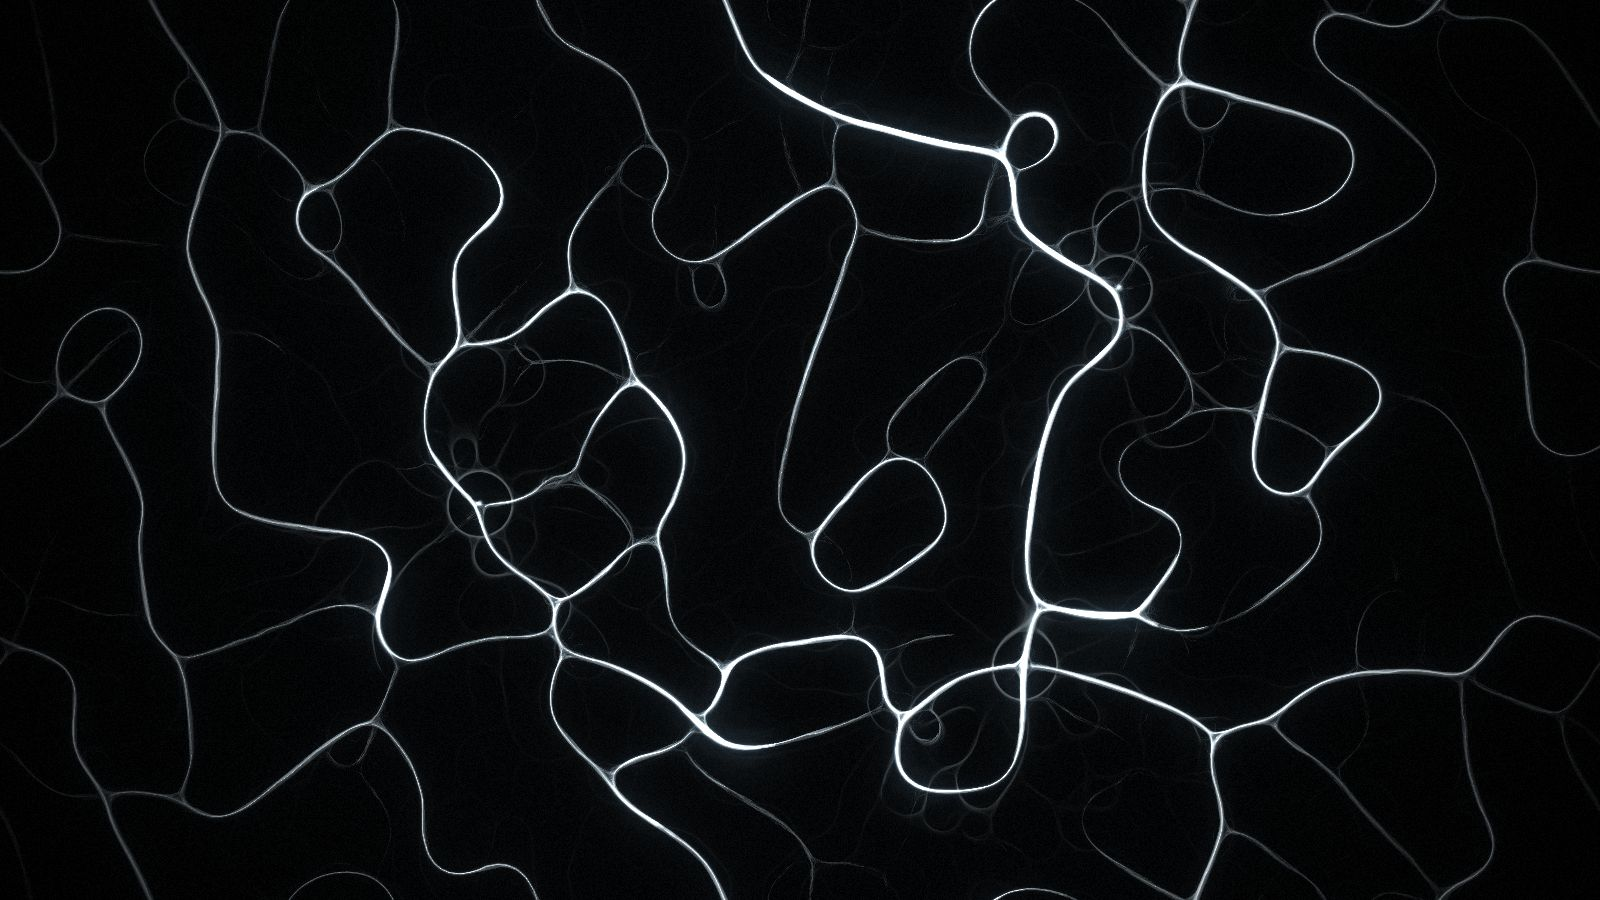
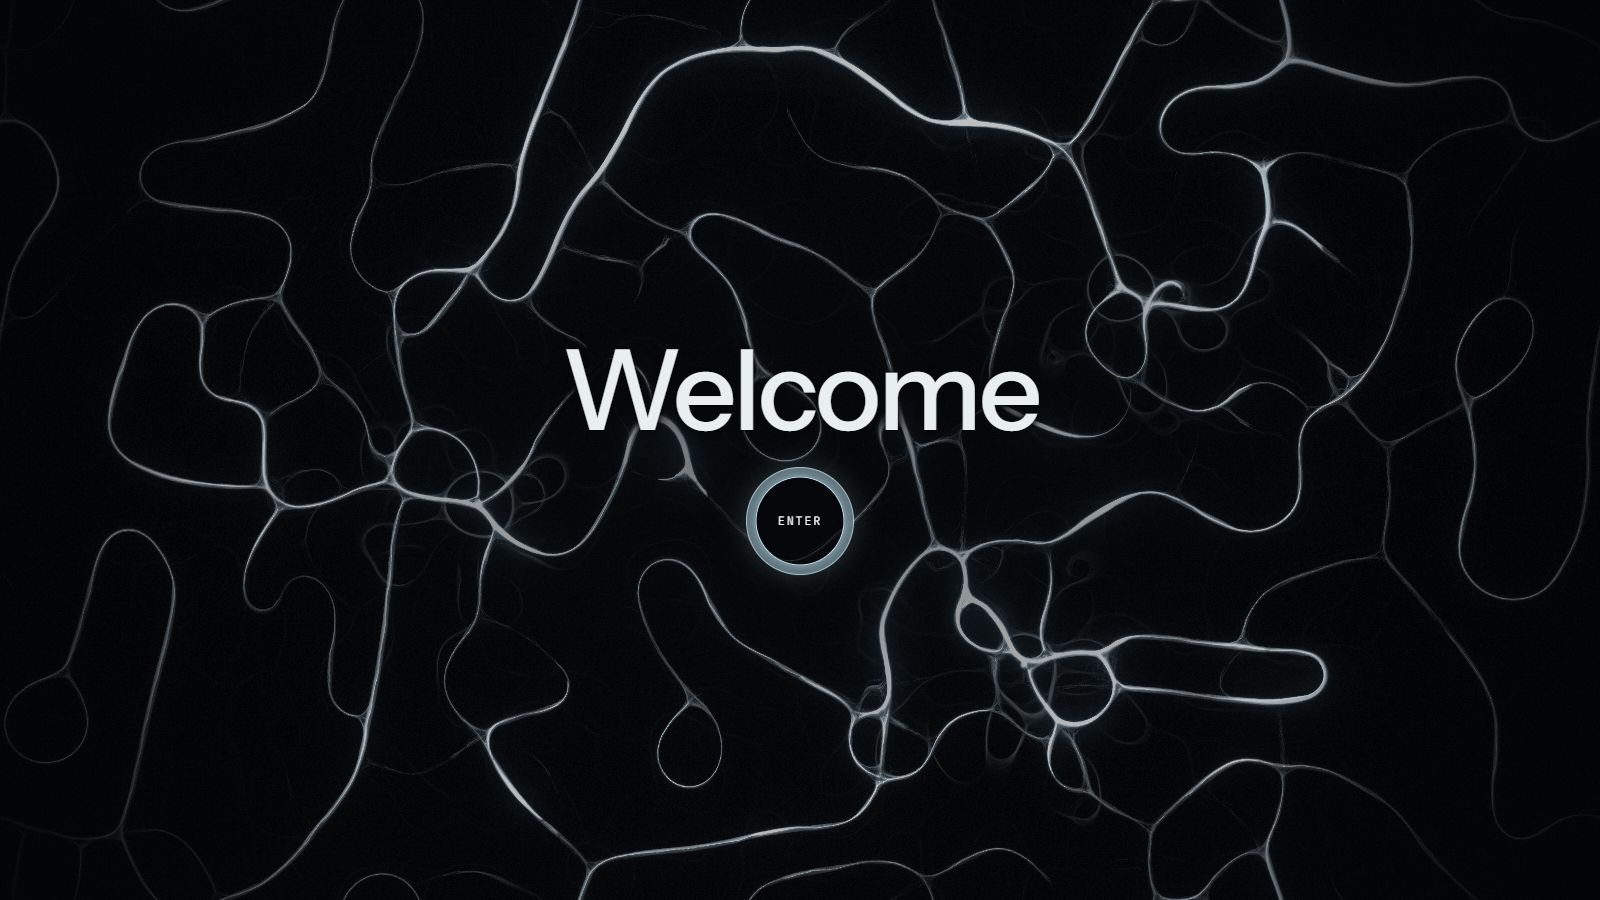
Simplify entry screen, add About portrait, dim the field on phones
- Entry screen shows only "Welcome" and a smaller Enter ring
- About window: portrait beside the text, heading first when stacked
- Phones: dimmer Physarum field and dark plates behind labels

diff --git a/style.css b/style.css
@@ -56,12 +56,11 @@ img { -webkit-user-drag: none; pointer-events: none; }
 .gate.out { opacity: 0; visibility: hidden; pointer-events: none; }
 body.gated .top, body.gated main, body.gated .foot { opacity: 0; }
 .gate-inner { text-shadow: 0 0 22px var(--bg), 0 0 10px var(--bg), 0 0 4px var(--bg); }
-.gate-name { margin: 0; font-size: clamp(46px, 8vw, 112px); font-weight: 500; letter-spacing: -0.03em; line-height: 0.95; }
-.gate-role { margin: 14px 0 40px; font-size: clamp(14px, 1.4vw, 17px); color: #b9c4ca; }
+.gate-name { margin: 0 0 36px; font-size: clamp(46px, 8vw, 112px); font-weight: 500; letter-spacing: -0.03em; line-height: 0.95; }
 .gate-enter {
   position: relative; display: inline-grid; place-items: center;
-  width: 116px; height: 116px; border-radius: 50%;
-  font-family: var(--mono); font-size: 13px; text-transform: uppercase; letter-spacing: 0.16em;
+  width: 84px; height: 84px; border-radius: 50%;
+  font-family: var(--mono); font-size: 11px; text-transform: uppercase; letter-spacing: 0.16em;
   border: 1px solid var(--accent); background: rgba(5, 7, 10, 0.6);
   box-shadow: 0 0 0 8px rgba(5, 7, 10, 0.45), 0 0 0 9px rgba(191, 227, 242, 0.3);
   transition: transform 0.25s ease, box-shadow 0.25s ease;
@@ -315,6 +314,14 @@ body:not(.gl-glass) .win {
 .win .p-no { font-family: var(--mono); font-size: 12px; color: var(--accent); }
 .win h2 { font-size: clamp(24px, 2.5vw, 34px); font-weight: 500; letter-spacing: -0.015em; line-height: 1.08; margin: 8px 0 0; }
 .win.small h2 { margin: 0 44px 18px 0; } /* clear of the close button */
+.win.about { width: min(900px, 100vw - 48px); }
+.about-grid {
+  display: grid; grid-template-columns: minmax(0, 4fr) minmax(0, 6fr); grid-template-rows: auto 1fr;
+  grid-template-areas: "photo head" "photo text"; column-gap: 32px; align-items: start;
+}
+.about-grid h2 { grid-area: head; }
+.about-grid .about-text { grid-area: text; }
+.about-grid .portrait { grid-area: photo; display: block; width: 100%; height: auto; border-radius: 14px; }
 .win-cols { display: grid; grid-template-columns: minmax(0, 5fr) minmax(0, 7fr); gap: 34px; min-height: 0; }
 .win-info, .win-media {
   overflow-y: auto; padding-bottom: 34px;
@@ -370,6 +377,11 @@ body:not(.gl-glass) .win {
   .win-cols { display: block; }
   .win-info, .win-media { overflow: visible; padding-bottom: 0; }
   .win-media { margin-top: 20px; }
+  .about-grid { grid-template-columns: 1fr; grid-template-rows: none; grid-template-areas: "head" "photo" "text"; }
+  .about-grid .portrait {
+    width: min(100%, 420px); aspect-ratio: 4 / 5; max-height: 46vh; margin-bottom: 22px;
+    object-fit: cover; object-position: 62% 40%;
+  }
 }
 @media (prefers-reduced-motion: reduce) {
   .win.enter, .win.enter .win-body, .win.leave { animation: none; }
@@ -384,6 +396,12 @@ body.short .colony .label, body.short .colony-item.flip .label {
 body.short .colony .label { max-width: 30vw; }
 body.tall .node-item .label { max-width: 40vw; }
 body.short .node-item .label { max-width: var(--col-w, 140px); }
+/* Phones: a soft dark plate under each label, so text never sits directly on a filament */
+body.tall:not(.list) .node .label, body.short:not(.list) .node .label,
+body.tall .colony .label, body.short .colony .label {
+  padding: 3px 8px; border-radius: 8px;
+  background: rgba(5, 7, 10, 0.62);
+}
 /* On phones the field shows each project's short title on one line; the window has the full one */
 .node .short { display: none; }
 body.tall:not(.list) .node .title, body.short:not(.list) .node .title { display: none; }

diff --git a/main.js b/main.js
@@ -377,12 +377,14 @@
     return { x: r.left + r.width / 2, y: r.top + r.height / 2 };
   }
 
-  function openWin(build, from, small) {
+  // variant: extra classes for the window ("small" for Contact, "small about" for About)
+  function openWin(build, from, variant) {
     if (!win.hidden) closeWin(true);
     lastFocus = document.activeElement;
     winBody.replaceChildren();
     build(winBody);
-    win.classList.toggle("small", !!small);
+    win.classList.remove("small", "about");
+    if (variant) win.classList.add(...variant.split(" "));
     body.classList.toggle("gl-glass", !!sim && !still && !isList());
     body.classList.add("modal");
     chrome.forEach(c => { c.inert = true; });
@@ -505,10 +507,20 @@
     track(which, which === "about" ? "About opened" : "Contact opened");
     openWin(root => {
       const h = el("h2", null, which === "about" ? "About" : "Contact"); h.id = "win-title";
-      root.append(h);
       if (which === "about") {
-        ABOUT.text.forEach(t => root.append(el("p", null, t)));
+        // portrait beside the text; stacked on narrow screens with the heading
+        // first, so the photo never sits under the close button
+        const grid = el("div", "about-grid");
+        const img = el("img", "portrait");
+        img.src = ABOUT.photo;
+        img.alt = "Portrait of Aykut Dağ";
+        img.decoding = "async";
+        const text = el("div", "about-text");
+        ABOUT.text.forEach(t => text.append(el("p", null, t)));
+        grid.append(h, img, text);
+        root.append(grid);
       } else {
+        root.append(h);
         const ul = el("ul", "links");
         CONTACT.forEach(c => {
           const a = el("a", null, c.label); a.href = c.href;
@@ -519,7 +531,7 @@
         });
         root.append(ul);
       }
-    }, centerOf(b), true);
+    }, centerOf(b), which === "about" ? "small about" : "small");
   }));
 
   win.querySelector(".win-close").addEventListener("click", () => closeWin());
@@ -627,6 +639,8 @@
   }
 
   function applyTier() {
+    // phones: a dimmer field, since small labels sit closer to bright filaments
+    sim.params.brightness = innerWidth < 720 || innerHeight < 560 ? 0.5 : 0.72;
     sim.resize(innerWidth, innerHeight, scaleFor(tier), DENSITY, foodPoints());
     gov.reset();
     document.getElementById("foot-agents").textContent =

diff --git a/index.html b/index.html
@@ -8,7 +8,7 @@
   <link rel="preconnect" href="https://fonts.googleapis.com">
   <link rel="preconnect" href="https://fonts.gstatic.com" crossorigin>
   <link href="https://fonts.googleapis.com/css2?family=Instrument+Sans:wght@400;500;600&family=JetBrains+Mono:wght@400;500&display=swap" rel="stylesheet">
-  <link rel="stylesheet" href="style.css?v=8e49c480">
+  <link rel="stylesheet" href="style.css?v=f1bd8f87">
 </head>
 <body>
   <canvas id="field" aria-hidden="true"></canvas>
@@ -17,8 +17,7 @@
        Hidden until main.js shows it, so a script failure never locks the page. -->
   <div id="gate" class="gate" role="dialog" aria-modal="true" aria-labelledby="gate-name" hidden>
     <div class="gate-inner">
-      <p class="gate-name" id="gate-name">Aykut Dağ</p>
-      <p class="gate-role">Architectural &amp; Computational Designer</p>
+      <p class="gate-name" id="gate-name">Welcome</p>
       <button type="button" class="gate-enter" id="gate-enter">Enter</button>
     </div>
   </div>
@@ -57,11 +56,11 @@
     <div id="win-body" class="win-body"></div>
   </div>
 
-  <script src="projects.js?v=339e0b98"></script>
+  <script src="projects.js?v=9249393b"></script>
   <script src="glyphs.js?v=8c4af774"></script>
   <script src="sound.js?v=5e7779a0"></script>
   <script src="physarum.js?v=6a88886e"></script>
-  <script src="main.js?v=4f5b0ef0"></script>
+  <script src="main.js?v=26be31b0"></script>
   <!-- Visitor statistics (cookieless): https://aykutdag.goatcounter.com -->
   <script data-goatcounter="https://aykutdag.goatcounter.com/count" async src="https://gc.zgo.at/count.js"></script>
 </body>

diff --git a/projects.js b/projects.js
@@ -410,6 +410,7 @@ window.PROJECTS = [
 ];
 
 window.ABOUT = {
+  photo: "img/aykut.jpg",
   text: [
     "Architectural and computational designer with 4+ years of experience in international competitions and concept design for cultural, hospitality and office buildings.",
     "I work with parametric design in Rhino and Grasshopper, interactive systems in TouchDesigner, generative AI and hands-on digital fabrication, with a particular interest in biophilic and bio-inspired design.",
